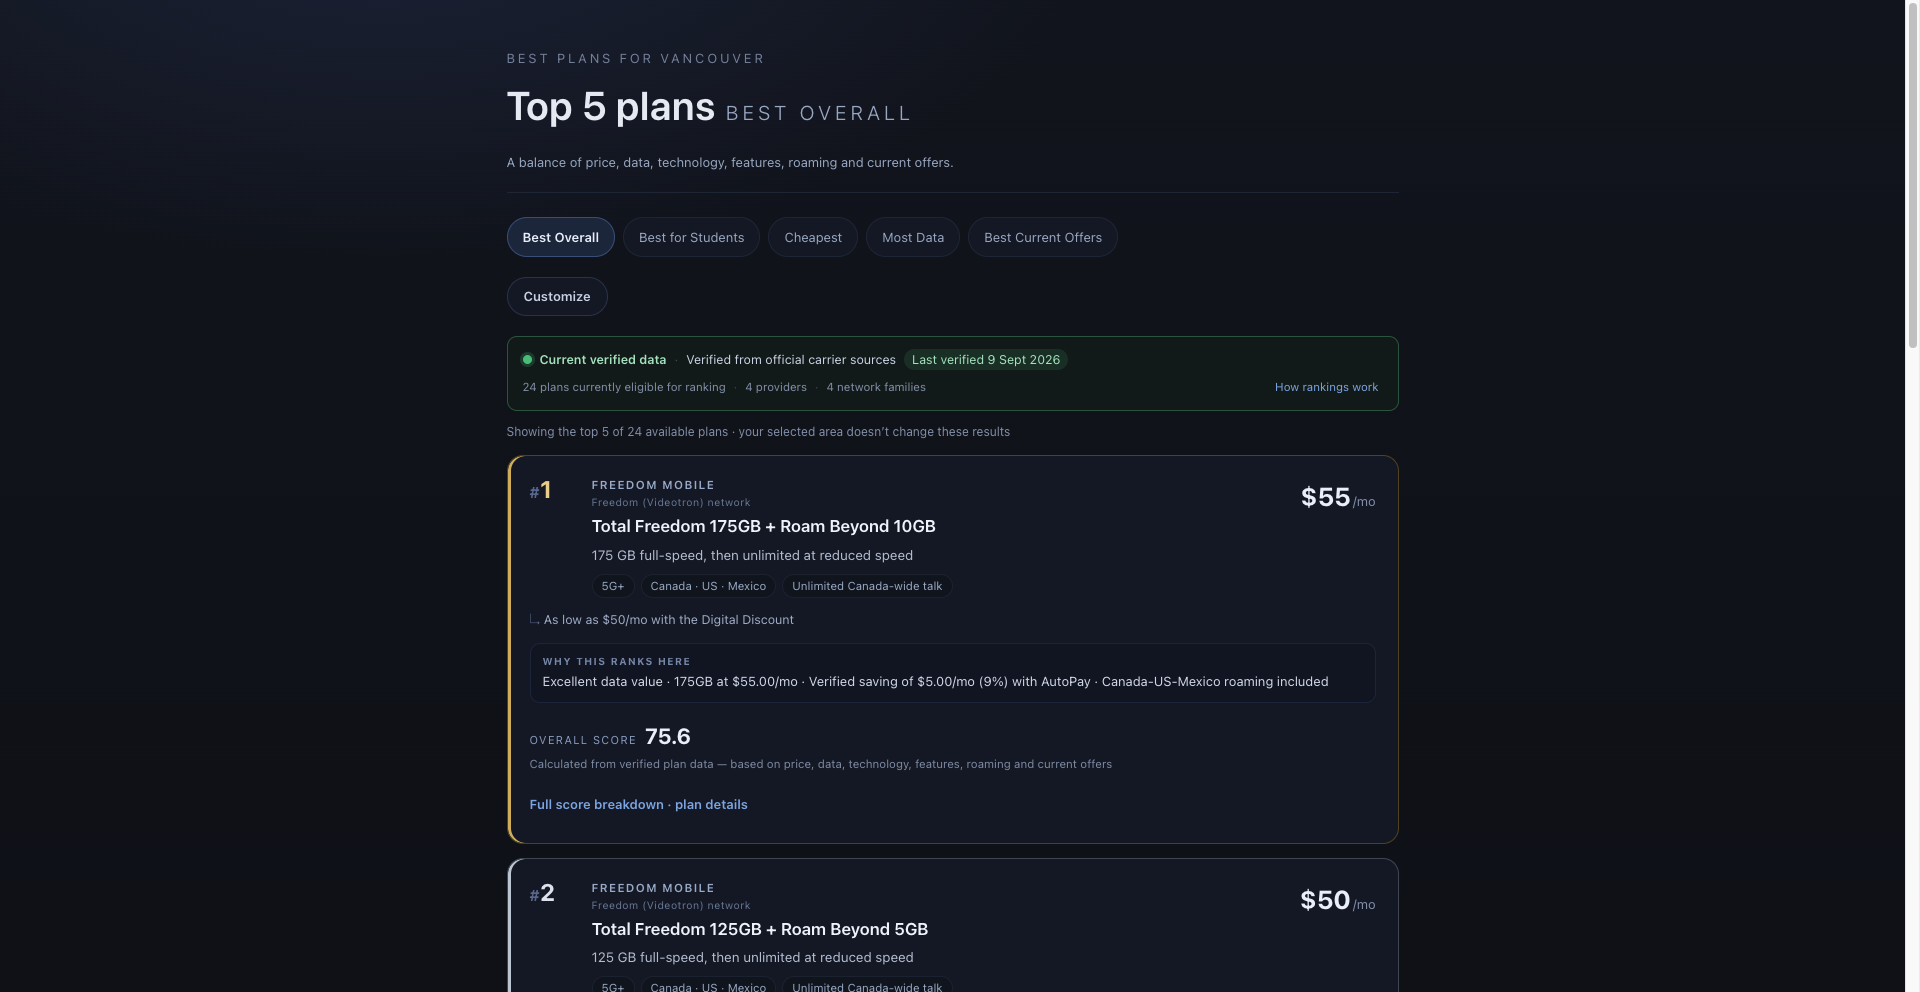
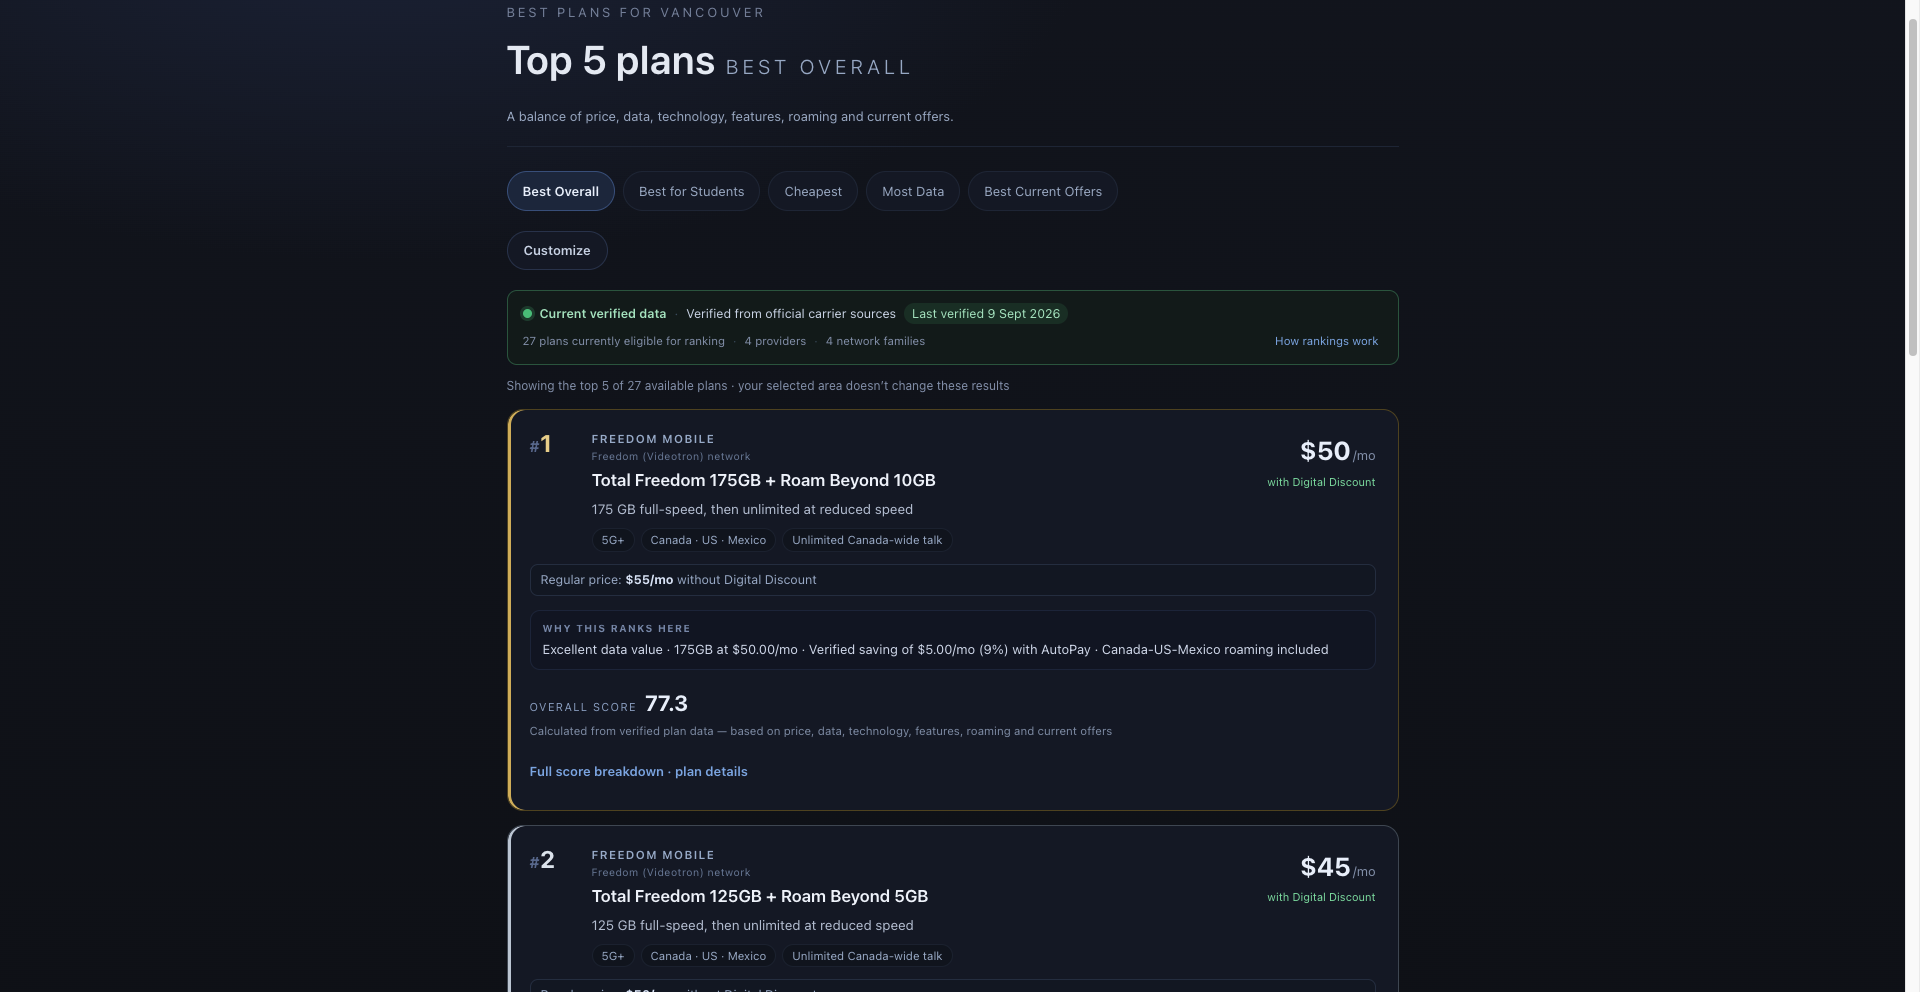
docs: refresh portfolio screenshots and author details

diff --git a/README.md b/README.md
@@ -222,7 +222,6 @@ boundaries, not approximations. Full details and regeneration instructions:
 
 ## Author
 
-**Devvrat Vaishnav**
-BSc Data Science — Simon Fraser University
+**Devvrat Vaishnav** — BSc Data Science Student, Simon Fraser University
 
 Live Website: https://metromobileplans.vercel.app/
